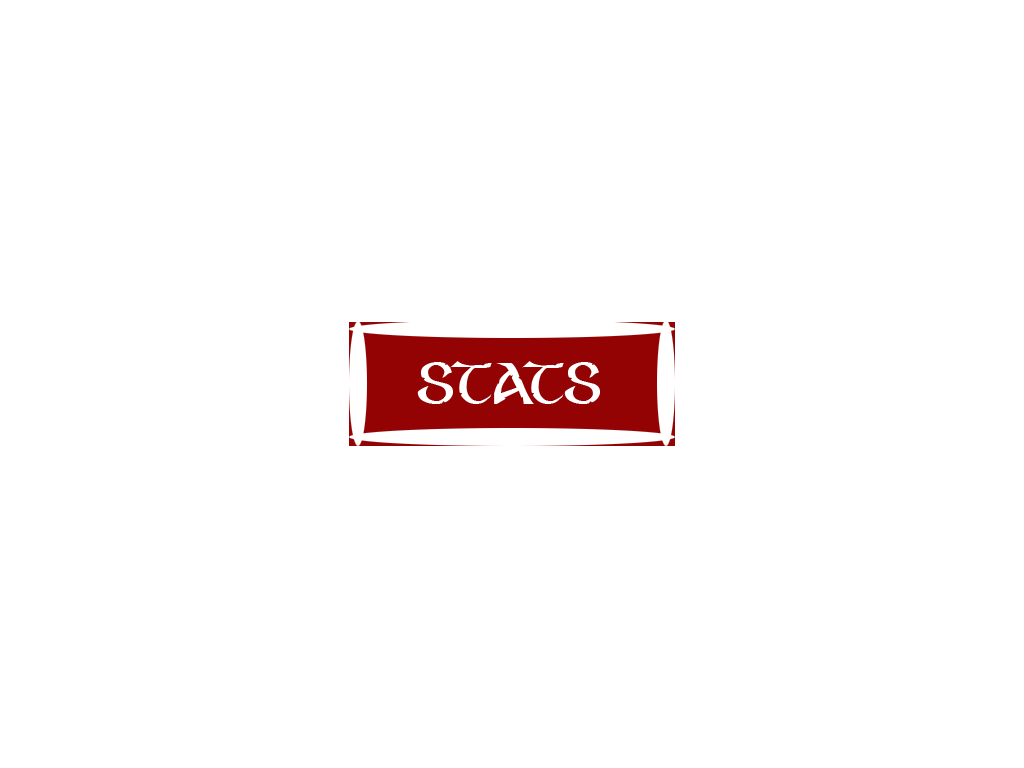
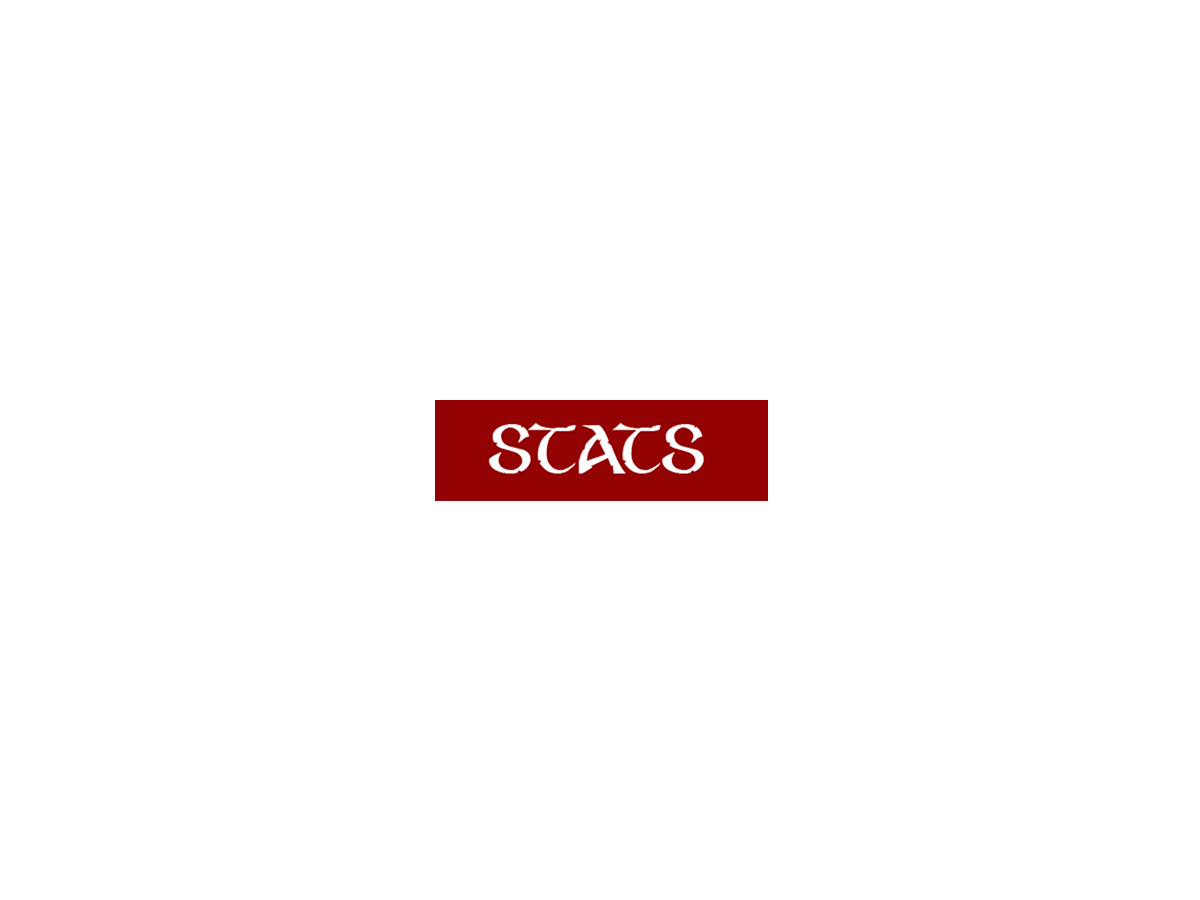
Placed rectangles for buttons in their correct positions and loaded in the proper button textures for them.

Changed region(s): [[0.3438, 0.4062, 0.6562, 0.5938]]

diff --git a/As Far as the Light Reaches/Game1.cs b/As Far as the Light Reaches/Game1.cs
@@ -23,9 +23,9 @@ namespace As_Far_as_the_Light_Reaches
         public Vector2 Barpos { get; set; }
 
         //Clickable Rectangles for buttons
-        Rectangle itemsButton = new Rectangle(100, 500, 300, 150);
-        Rectangle statsButton = new Rectangle(100, 300, 300, 150);
-        Rectangle resumeButton = new Rectangle(100, 100, 300, 150);
+        Rectangle itemsButton = new Rectangle(-10, 60, 1000, 700);
+        Rectangle statsButton = new Rectangle(-10, 290, 1000, 700);
+        Rectangle resumeButton = new Rectangle(-10, -180, 1000, 700);
 
         //Textures to fill the button rectangles
         Texture2D rb;
@@ -89,10 +89,10 @@ namespace As_Far_as_the_Light_Reaches
             // TODO: use this.Content to load your game content here
 
             // Loading in the protagonist sprite
-            protag = Content.Load<Texture2D>("Characters\\Protag\\Protag.png");
+            //protag = Content.Load<Texture2D>("Characters\\Protag\\Protag.png");
 
             // Loading in the start menu
-            startMenu = Content.Load<Texture2D>("UI\\StartMenu.png");
+            startMenu = Content.Load<Texture2D>("UI\\Start Menu.png");
 
             // Loading in the stats menu
             statsMenu = Content.Load<Texture2D>("UI\\Stats Menu.png");
@@ -108,6 +108,7 @@ namespace As_Far_as_the_Light_Reaches
 
             // Loading in the stats button
             sb = Content.Load<Texture2D>("UI\\Stats Button.png");
+
         }
 
 
@@ -149,7 +150,7 @@ namespace As_Far_as_the_Light_Reaches
         /// <param name="gameTime">Provides a snapshot of timing values.</param>
         protected override void Draw(GameTime gameTime)
         {
-            GraphicsDevice.Clear(Color.SeaGreen);
+            GraphicsDevice.Clear(Color.Black);
 
             // TODO: Add your drawing code here
 
@@ -157,7 +158,7 @@ namespace As_Far_as_the_Light_Reaches
             spriteBatch.Begin();
 
             //Draw character
-            spriteBatch.Draw(protag, playerPos, Color.White);
+            //spriteBatch.Draw(protag, playerPos, Color.White);
 
             //If the player pauses the game1
             if (pause == true)
@@ -168,20 +169,21 @@ namespace As_Far_as_the_Light_Reaches
                 //Draw pause menu GUI
                 spriteBatch.Draw(startMenu, vec, Color.White);
                 spriteBatch.Draw(rb, resumeButton, Color.White);
-                spriteBatch.Draw(sb, statsButton, Color.White);
                 spriteBatch.Draw(ib, itemsButton, Color.White);
+                spriteBatch.Draw(sb, statsButton, Color.White);
 
+                //Make rectangles change color
                 if(m.Position.X < resumeButton.Width && m.Position.X > resumeButton.X && m.Position.Y < resumeButton.Height && m.Position.Y > resumeButton.Y)
                 {
                     spriteBatch.Draw(rb, resumeButton, Color.Red);
                 }
 
-                if (m.Position.X < itemsButton.Width && m.Position.X > itemsButton.X && m.Position.Y < itemsButton.Height && m.Position.Y > itemsButton.Y)
+                else if (m.Position.X < itemsButton.Width && m.Position.X > itemsButton.X && m.Position.Y < itemsButton.Height && m.Position.Y > itemsButton.Y)
                 {
                     spriteBatch.Draw(ib, itemsButton, Color.Red);
                 }
 
-                if (m.Position.X < statsButton.Width && m.Position.X > statsButton.X && m.Position.Y < statsButton.Height && m.Position.Y > statsButton.Y)
+                else if(m.Position.X < statsButton.Width && m.Position.X > statsButton.X && m.Position.Y < statsButton.Height && m.Position.Y > statsButton.Y)
                 {
                     spriteBatch.Draw(sb, statsButton, Color.Red);
                 }
